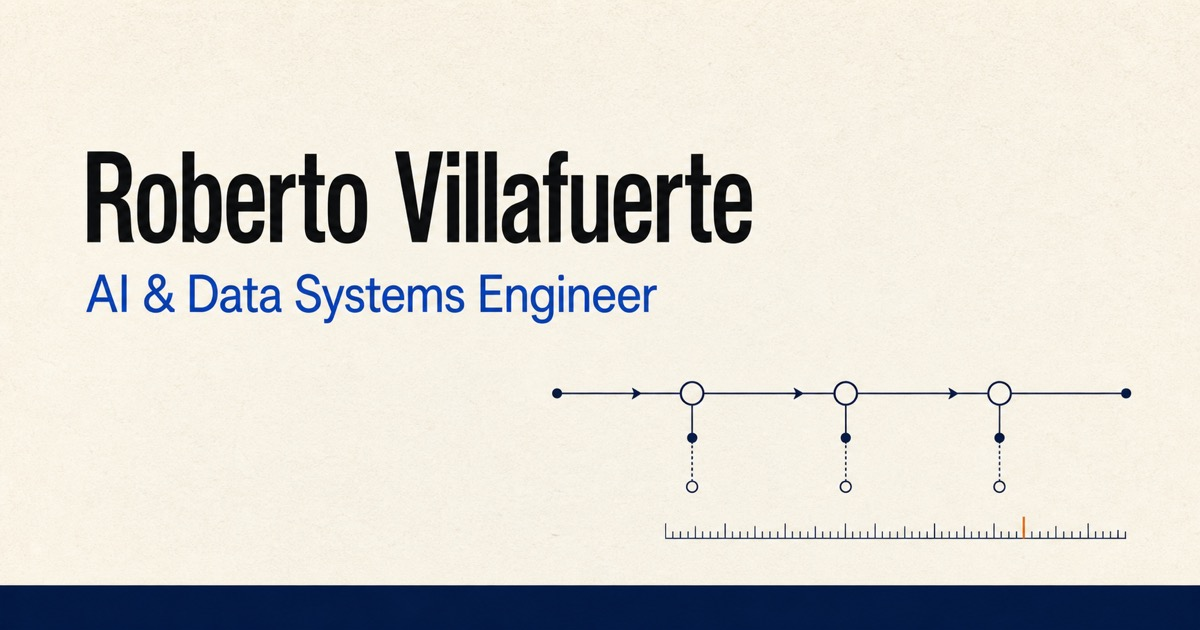
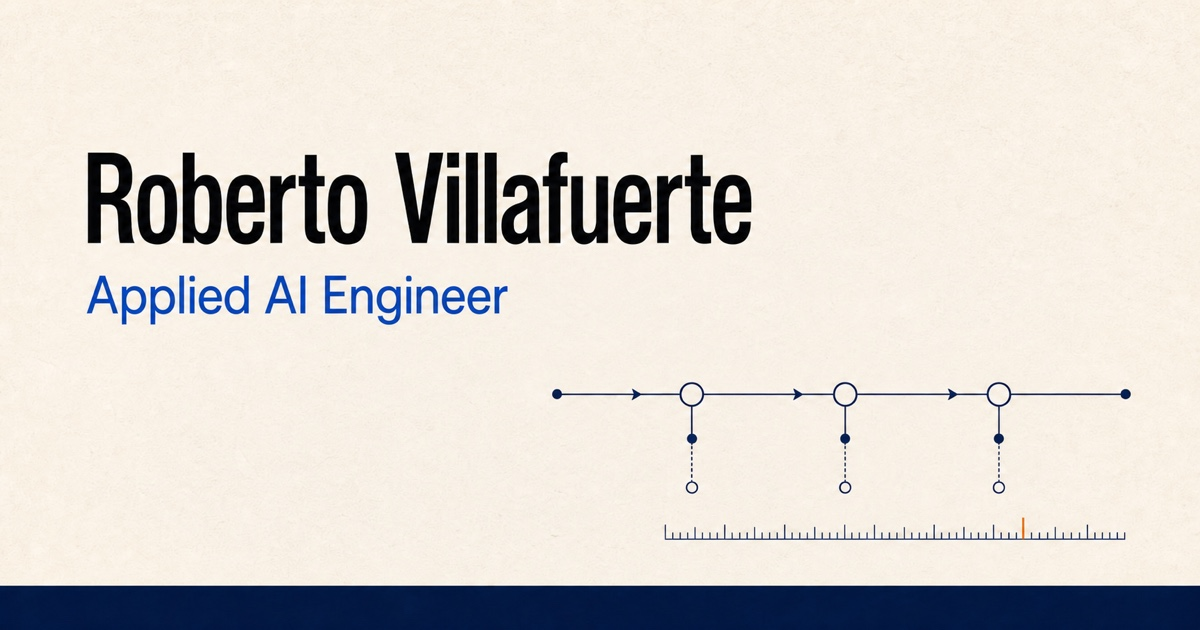
Update public title to Applied AI Engineer

diff --git a/src/data/profile.es.ts b/src/data/profile.es.ts
@@ -1,10 +1,10 @@
 export const profile = {
   name: 'Roberto Villafuerte',
   siteName: 'VillaForTech',
-  headline: 'Ingeniero de Sistemas de IA y Datos',
+  headline: 'Ingeniero de IA Aplicada',
   location: 'Quito, Ecuador',
   currentRole: {
-    title: 'Ingeniero de Sistemas de IA y Datos',
+    title: 'Ingeniero de IA Aplicada',
     organization: 'COMPUMAX',
     period: 'Agosto de 2026 - actualidad',
     summary:
@@ -80,7 +80,7 @@ export const profile = {
   ],
   experience: [
     {
-      title: 'Ingeniero de Sistemas de IA y Datos',
+      title: 'Ingeniero de IA Aplicada',
       organization: 'COMPUMAX',
       period: 'Agosto de 2026 - actualidad',
       details: [
@@ -186,7 +186,7 @@ export const profile = {
     {
       label: 'Actual',
       value: 'COMPUMAX',
-      detail: 'Ingeniero de Sistemas de IA y Datos',
+      detail: 'Ingeniero de IA Aplicada',
     },
     {
       label: 'Estudios internacionales',
@@ -205,7 +205,7 @@ export const profile = {
       detail: 'IEEEXtreme 18.0 · IEEE',
     },
   ],
-  lastVerified: '2026-08-28',
+  lastVerified: '2026-09-01',
 } as const;
 
 export default profile;

diff --git a/src/data/profile.ts b/src/data/profile.ts
@@ -1,10 +1,10 @@
 export const profile = {
   name: 'Roberto Villafuerte',
   siteName: 'VillaForTech',
-  headline: 'AI & Data Systems Engineer',
+  headline: 'Applied AI Engineer',
   location: 'Quito, Ecuador',
   currentRole: {
-    title: 'AI & Data Systems Engineer',
+    title: 'Applied AI Engineer',
     organization: 'COMPUMAX',
     period: 'August 2026 - Present',
     summary:
@@ -72,7 +72,7 @@ export const profile = {
   ],
   experience: [
     {
-      title: 'AI & Data Systems Engineer',
+      title: 'Applied AI Engineer',
       organization: 'COMPUMAX',
       period: 'August 2026 - Present',
       details: [
@@ -178,7 +178,7 @@ export const profile = {
     {
       label: 'Current',
       value: 'COMPUMAX',
-      detail: 'AI & Data Systems Engineer',
+      detail: 'Applied AI Engineer',
     },
     {
       label: 'International study',
@@ -196,7 +196,7 @@ export const profile = {
       detail: 'IEEEXtreme 18.0 · IEEE',
     },
   ],
-  lastVerified: '2026-08-28',
+  lastVerified: '2026-09-01',
 } as const;
 
 export default profile;

diff --git a/docs/content-policy.md b/docs/content-policy.md
@@ -2,7 +2,7 @@
 
 The website and LinkedIn should describe the same professional identity:
 
-> AI & Data Systems Engineer
+> Applied AI Engineer
 
 The site may add technical depth, but it must not upgrade the certainty of a LinkedIn claim or turn implementation artifacts into deployment or business-impact claims.
 
